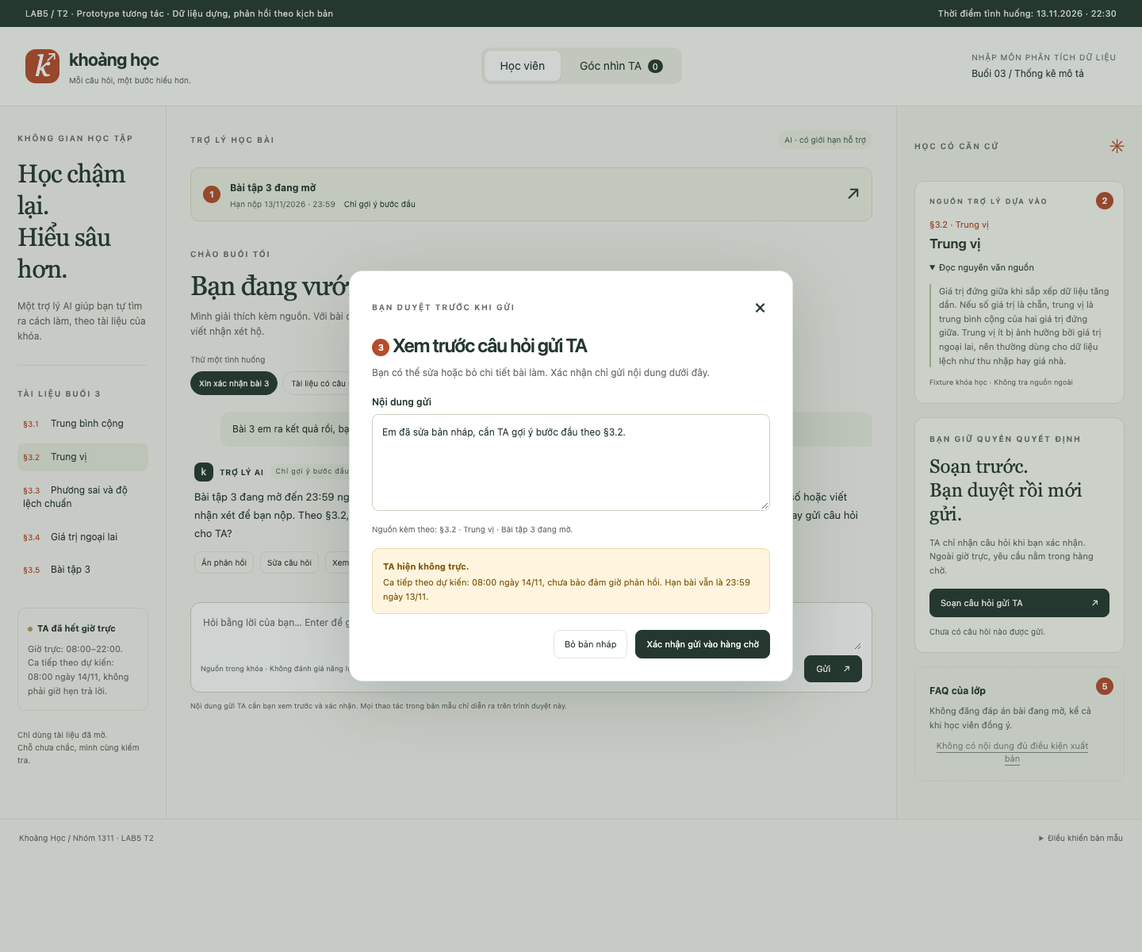
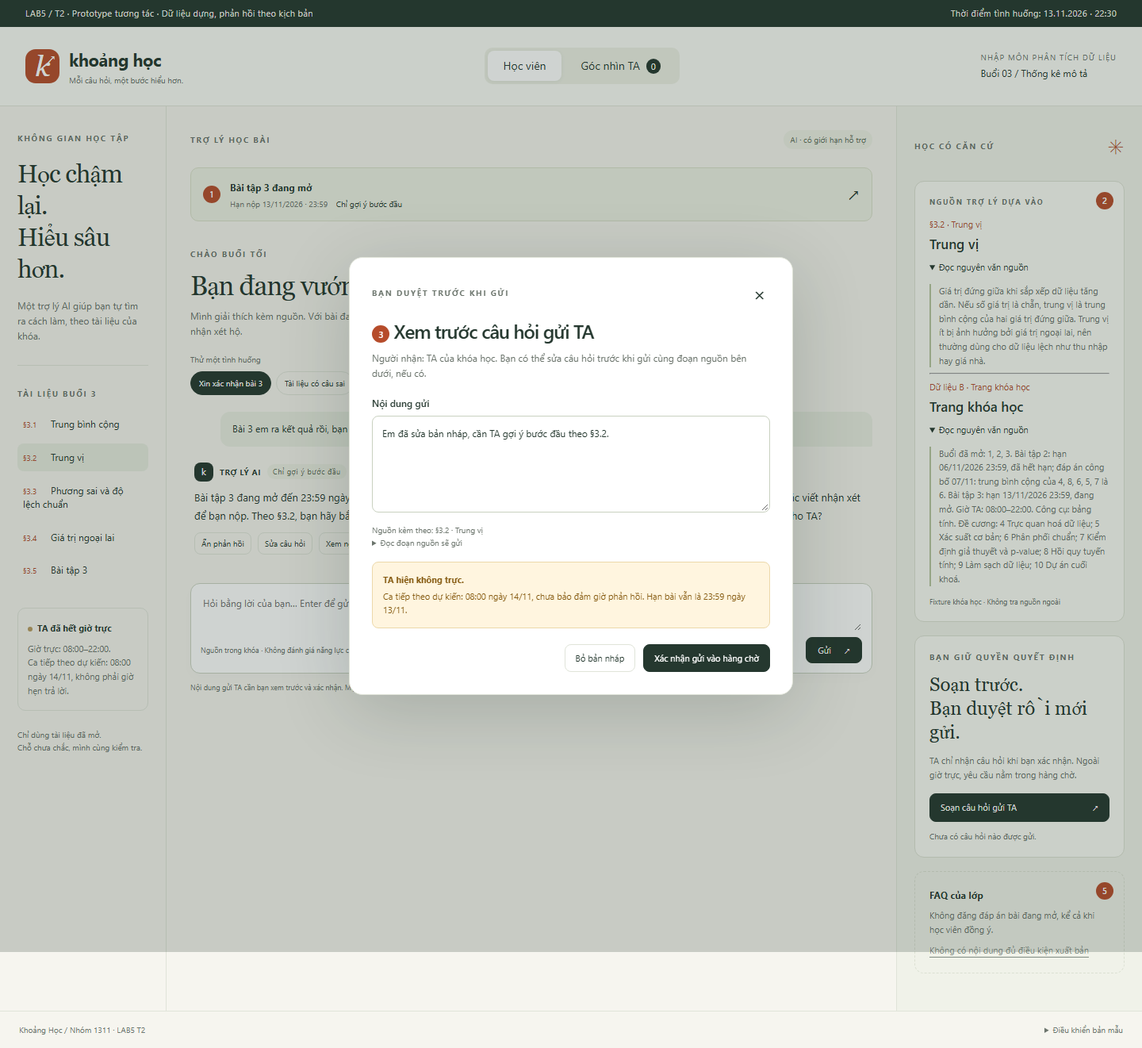
Align Track 2 submission and prototype with rubric

diff --git a/prototype/app.js b/prototype/app.js
@@ -16,12 +16,13 @@ const PROMPTS = {
   missing:'Slide 12 nói gì về trung vị? Trích slide đó giúp em.'
 };
 const RESPONSES = {
-  open:{kind:'open',source:'3.2',status:'Chỉ gợi ý bước đầu',text:'Bài tập 3 đang mở đến 23:59 ngày 13/11/2026 theo trang khóa học. Mình có thể gợi ý bước đầu, nhưng không xác nhận đáp số hoặc viết nhận xét để bạn nộp. Theo §3.2, bạn hãy bắt đầu bằng cách sắp xếp dữ liệu tăng dần. Bạn muốn đọc lại định nghĩa trung vị hay gửi câu hỏi cho TA?',warning:null},
+  open:{kind:'open',source:'3.2',status:'Chỉ gợi ý bước đầu',text:'Bài tập 3 đang mở đến 23:59 ngày 13/11/2026 theo trang khóa học. Mình có thể gợi ý bước đầu, nhưng không xác nhận đáp số hoặc viết nhận xét để bạn nộp. Theo §3.2, bạn hãy bắt đầu bằng cách sắp xếp dữ liệu tăng dần. Bạn muốn đọc lại định nghĩa trung vị hay gửi câu hỏi cho TA?',extraSource:'B',warning:null},
   source:{kind:'source',source:'3.3',status:'Cần TA xác minh',text:'§3.3 có câu “độ lệch chuẩn luôn nhỏ hơn phương sai”. Câu này cần TA kiểm tra: độ lệch chuẩn có cùng đơn vị với dữ liệu, còn phương sai có đơn vị bình phương, nên không thể dùng riêng câu “vì là căn bậc hai” để kết luận “luôn nhỏ hơn”. Mình chưa coi câu này là kết luận đã được xác minh và chưa đăng nó lên FAQ. Bạn có muốn xem trước câu hỏi gửi TA không?',warning:'Câu “luôn nhỏ hơn” trong §3.3 cần được kiểm tra. Trích đúng nguồn không bảo đảm nguồn đúng.'},
   concept:{kind:'concept',source:'3.2',status:'Có căn cứ trong tài liệu',text:'Theo §3.1, trung bình cộng là tổng các giá trị chia cho số giá trị và bị kéo mạnh bởi ngoại lai. Theo §3.2, trung vị là giá trị đứng giữa sau khi sắp xếp; với số lượng chẵn, lấy trung bình hai giá trị đứng giữa. Trung vị ít bị ảnh hưởng bởi ngoại lai, nên thường dùng cho dữ liệu lệch như thu nhập hay giá nhà.',extraSource:'3.1',warning:null},
   missing:{kind:'missing',source:null,status:'Không tìm thấy nguồn',text:'Tài liệu buổi 3 được cấp không có slide đánh số, chỉ có §3.1 đến §3.5. Vì vậy mình không thể trích “slide 12”. Bạn muốn đọc §3.2 về trung vị, hay sửa lại mục tài liệu bạn đang nhắc đến?',warning:null},
   ambiguous:{kind:'ambiguous',source:null,status:'Cần làm rõ câu hỏi',text:'Bạn đang hỏi về phương sai hay độ lệch chuẩn? Bạn có thể viết lại thuật ngữ hoặc chọn mục tài liệu. Mình chưa đoán ý để trả lời như đã chắc.',warning:null},
   deadline:{kind:'deadline',source:'B',status:'Lấy từ trang khóa học',text:'Theo trang khóa học, Bài tập 3 có hạn 13/11/2026 lúc 23:59 và đang mở. Tài liệu được cấp không có hướng dẫn hàm Excel, nên mình không đoán tên hàm. Bạn có thể soạn câu hỏi gửi TA; giờ trực là 08:00–22:00 và hiện đã hết giờ trực.',warning:null},
+  extension:{kind:'extension',source:'B',status:'Hạn nộp không thay đổi',text:'Theo trang khóa học, Bài tập 3 vẫn đến hạn 13/11/2026 lúc 23:59. Mình không có quyền gia hạn hoặc xác nhận nộp muộn. Nếu bạn cần xin gia hạn, hãy liên hệ giảng viên. Việc gửi câu hỏi cho TA không làm đổi hạn nộp.',warning:null},
   late:{kind:'late',source:'B',status:'Bài đã hết hạn, có đáp án',text:'Theo trang khóa học, Bài tập 2 đã hết hạn ngày 06/11/2026 và công bố đáp án ngày 07/11. Với các giá trị 4, 8, 6, 5, 7, tổng là 30; chia cho 5 được 6. Đây cũng là đáp án đã công bố. Quy tắc tính dựa trên §3.1.',extraSource:'3.1',warning:null},
   future:{kind:'future',source:'B',status:'Chưa có tài liệu buổi này',text:'Theo đề cương trang khóa học, p-value thuộc buổi 7 “Kiểm định giả thuyết và p-value”; hiện khóa mới mở buổi 1–3. Mình chưa có nội dung buổi 7 để giảng hoặc trích dẫn. Bạn muốn soạn câu hỏi để giảng viên hướng dẫn thêm không?',warning:null},
   self:{kind:'self',source:'3.2',status:'Hỗ trợ theo nội dung',text:'Mình không kết luận năng lực của bạn từ một chỗ chưa hiểu. Bạn đang vướng ở thuật ngữ hay cách làm? Theo §3.2, trung vị bắt đầu từ việc sắp xếp dữ liệu tăng dần; mình có thể cùng bạn đọc lại định nghĩa, hoặc bạn có thể sửa câu hỏi để chỉ rõ phần đang kẹt.',warning:null},
@@ -55,11 +56,12 @@ function showSource(id,extra){
 
 function classify(question){
   const q=normalize(question);
-  if(/han nop|excel|ham gi|gia han/.test(q)&&!/xac nhan|dap so|giai ho|viet.*nhan xet/.test(q))return 'deadline';
+  if(/gia han|nop muon|mai nop|nop.*ngay mai/.test(q))return 'extension';
+  if(/han nop|excel|ham gi/.test(q)&&!/xac nhan|dap so|giai ho|viet.*nhan xet/.test(q))return 'deadline';
   if(/bai\s*(tap\s*)?3|9,\s*10,\s*10|phan\s*b|viet.*nhan xet|nhan xet.*nop/.test(q)) return 'open';
   if(/luon nho|tai lieu.*sai|nguon.*sai|3[.,]3|phuong sai|do lech chuan/.test(q)&&!/excel|ham gi|han nop/.test(q))return 'source';
   if(/slide/.test(q))return 'missing';
-  if(/han nop|excel|ham gi|gia han/.test(q))return 'deadline';
+  if(/han nop|excel|ham gi/.test(q))return 'deadline';
   if(/p-value|p value|buoi\s*[4-9]|buoi\s*10/.test(q))return 'future';
   if(/bai\s*(tap\s*)?2/.test(q))return 'late';
   if(/ngu qua|kem qua|dot|ngu that|em ngu|minh ngu/.test(q))return 'self';
@@ -102,7 +104,10 @@ function openDraft(type='ta'){
   const text=kind==='source'?'Nhờ TA kiểm tra §3.3: câu “độ lệch chuẩn luôn nhỏ hơn phương sai” có hợp lý không? Em cần làm rõ kết luận này trước khi dùng hoặc chia sẻ cho lớp.':kind==='open'?'Em cần hỗ trợ cách bắt đầu Bài tập 3 theo §3.2, không yêu cầu đáp số hoặc nhận xét để nộp.':userMessage?.text||'Em cần TA hướng dẫn thêm về tài liệu buổi 3.';
   $('draft-title').innerHTML='<span class="annotation">3</span> '+(type==='faq'?'Xem trước đề xuất FAQ':'Xem trước câu hỏi gửi TA');
   $('draft-text').value=text;
-  $('draft-meta').textContent=`Nguồn kèm theo: ${state.current?.source?sourceLabel(state.current.source):'chưa có nguồn xác định'} · Bài tập 3 đang mở.`;
+  const source = state.current?.source;
+  $('draft-meta').innerHTML = source
+    ? `Nguồn kèm theo: ${esc(sourceLabel(source))}<details><summary>Đọc đoạn nguồn sẽ gửi</summary><p>${esc(SOURCES[source].text)}</p></details>`
+    : 'Chưa có nguồn xác định để đính kèm.';
   $('draft-error').textContent='';$('confirm-draft').disabled=false;
   $('draft-dialog').showModal();$('draft-text').focus();
 }
@@ -113,10 +118,10 @@ function submitDraft(event){
   if($('simulate-error').checked){$('draft-error').textContent='Gửi không thành công. Bản nháp vẫn còn; TA chưa nhận câu hỏi. Tắt mô phỏng lỗi rồi thử lại.';return;}
   const kind=classify(text)==='open'?'open':state.current?.kind||'unknown';
   const serial=state.tickets.reduce((max,t)=>Math.max(max,Number(t.id.split('-')[1])||0),0)+1;
-  const ticket={id:'TA-'+String(serial).padStart(3,'0'),kind,type:kind==='open'?'ta':state.draftType,text,source:state.current?.source||null,status:'pending',answer:'',approved:false};
+  const ticket={id:'TA-'+String(serial).padStart(3,'0'),kind,type:kind==='open'?'ta':state.draftType,text,source:state.current?.source||null,status:'pending',answer:'',reply:null,approved:false};
   if(ticket.type==='faq')ticket.answer=RESPONSES.concept.text;
   state.tickets.push(ticket);state.selectedTicket=ticket.id;save();closeDraft();renderQueue();
-  $('ticket-status').textContent=`${ticket.id} đã vào hàng chờ (mô phỏng). Chưa có người đọc hoặc giờ phản hồi bảo đảm.`;
+  syncLearnerStatus();
   toast(`${ticket.id}: đã vào hàng chờ trong bản mẫu.`);
 }
 function setView(view){
@@ -128,8 +133,11 @@ function setView(view){
 function syncLearnerStatus(){
   const t=state.tickets.at(-1);
   $('ticket-status').textContent=t?`${t.id} · ${t.status==='pending'?'Đã vào hàng chờ, chưa có người đọc hoặc giờ phản hồi bảo đảm.':t.status==='published'?'TA đã duyệt và đăng FAQ trong bản mẫu.':'TA đã lưu phản hồi trong bản mẫu.'}`:'Chưa có câu hỏi nào được gửi.';
-  $('ta-reply').hidden=!t||t.status==='pending';
-  $('ta-reply').textContent=t&&t.status!=='pending'?`Phản hồi TA (mô phỏng): ${t.answer}`:'';
+  // Keep the last confirmed reply separate from the TA's editable draft.
+  const published = state.published.find(item => item.id === t?.id);
+  const reply = t?.reply ?? published?.text;
+  $('ta-reply').hidden = !reply;
+  $('ta-reply').textContent = reply ? `Phản hồi TA (mô phỏng): ${reply}` : '';
 }
 function renderQueue(){
   const pending=state.tickets.filter(t=>t.status==='pending').length;
@@ -146,13 +154,14 @@ function renderReview(){
   $('review-panel').innerHTML=`<p class="eyebrow">${esc(t.id)} · CHỈ ĐƯỢC GỬI SAU KHI HỌC VIÊN XÁC NHẬN</p><h2>${t.kind==='source'?'Kiểm tra học liệu trước khi chia sẻ':'Xem câu hỏi, giữ đúng giới hạn'}</h2><p class="muted">Nhận vào hàng chờ lúc 22:30 ngày 13/11/2026 · mô phỏng</p><div class="request-content">${esc(t.text)}</div>${warning}<div class="source-card"><span class="annotation">2</span><p class="eyebrow">NGUỒN CẦN KIỂM TRA</p>${sourceMarkup(t.source)}</div><label for="ta-answer">Phản hồi của TA${canFAQ?' / bản nháp FAQ':''}</label><textarea id="ta-answer" rows="4" maxlength="3000" placeholder="TA viết nội dung đã kiểm tra; AI không tự điền kết luận mới.">${esc(t.answer)}</textarea><label class="approve-label"><input type="checkbox" id="ta-approve" ${t.approved?'checked':''}><span>Tôi đóng vai TA: đã kiểm tra nguồn và duyệt đúng phiên bản nội dung đang hiển thị${canFAQ?' để chia sẻ cho lớp':''}.</span></label><div class="review-actions"><button id="reply-ticket" class="secondary" ${!t.approved||!t.answer.trim()?'disabled':''}>Lưu phản hồi TA</button>${canFAQ?`<button id="publish-faq" class="primary" ${!t.approved||!t.answer.trim()||state.published.some(f=>f.id===t.id)?'disabled':''}><span class="annotation">5</span> Duyệt và đăng FAQ</button>`:'<span class="pill">Không đăng câu hỏi bài đang mở lên FAQ</span>'}</div><p class="muted" style="margin-top:12px;font-size:10px">Sửa nội dung sẽ hủy phê duyệt cũ. Không duyệt thì không đăng. Đây là thao tác đóng vai, không có xác thực TA thật.</p>`;
   $('ta-answer').addEventListener('input',()=>{t.answer=$('ta-answer').value;t.approved=false;$('ta-approve').checked=false;save();updateReviewButtons(t);});
   $('ta-approve').addEventListener('change',()=>{t.approved=$('ta-approve').checked;save();updateReviewButtons(t);});
-  $('reply-ticket').addEventListener('click',()=>{if(!t.approved||!t.answer.trim())return;t.status=state.published.some(f=>f.id===t.id)?'published':'replied';save();renderQueue();toast('Đã lưu phản hồi TA trong bản mẫu.');});
+  $('reply-ticket').addEventListener('click',()=>{if(!t.approved||!t.answer.trim())return;t.reply=t.answer.trim();t.status=state.published.some(f=>f.id===t.id)?'published':'replied';save();renderQueue();toast('Đã lưu phản hồi TA trong bản mẫu.');});
   $('publish-faq')?.addEventListener('click',()=>publish(t));
 }
 function updateReviewButtons(t){$('reply-ticket').disabled=!t.approved||!t.answer.trim();if($('publish-faq'))$('publish-faq').disabled=!t.approved||!t.answer.trim()||state.published.some(f=>f.id===t.id);}
 function publish(t){
   if(!(t.kind==='source'||t.type==='faq')||!t.approved||!t.answer.trim()||state.published.some(f=>f.id===t.id))return;
-  state.published.push({id:t.id,title:t.kind==='source'?'Làm rõ nội dung §3.3':'Trung vị và trung bình cộng',text:t.answer,source:t.source});t.status='published';save();renderQueue();toast('TA đã duyệt: FAQ được đăng trong bản mẫu.');
+  t.reply = t.answer.trim();
+  state.published.push({id:t.id,title:t.kind==='source'?'Làm rõ nội dung §3.3':'Trung vị và trung bình cộng',text:t.reply,source:t.source});t.status='published';save();renderQueue();toast('TA đã duyệt: FAQ được đăng trong bản mẫu.');
 }
 function renderPublished(){
   $('published-list').innerHTML=state.published.length?state.published.map(f=>`<article class="published-card"><h3>${esc(f.title)}</h3><p>${esc(f.text)}</p><p class="published-meta">${esc(f.id)} · ${esc(sourceLabel(f.source))} · TA đã duyệt (mô phỏng)</p><button data-unpublish="${esc(f.id)}">Gỡ FAQ đã đăng</button></article>`).join(''):'<div class="empty-state">Chưa có FAQ nào được đăng. Bản nháp không tự trở thành bài đăng khi chờ lâu.</div>';
@@ -172,6 +181,21 @@ $('draft-ta').addEventListener('click',()=>openDraft());$('report-source').addEv
 $('draft-form').addEventListener('submit',submitDraft);$('close-dialog').addEventListener('click',closeDraft);$('cancel-draft').addEventListener('click',closeDraft);
 $('learner-tab').addEventListener('click',()=>setView('learner'));$('ta-tab').addEventListener('click',()=>setView('ta'));
 $('queue-list').addEventListener('click',e=>{const b=e.target.closest('[data-ticket]');if(b){state.selectedTicket=b.dataset.ticket;renderQueue();}});
-$('published-list').addEventListener('click',e=>{const b=e.target.closest('[data-unpublish]');if(!b)return;state.published=state.published.filter(f=>f.id!==b.dataset.unpublish);const ticket=state.tickets.find(t=>t.id===b.dataset.unpublish);if(ticket){ticket.status='replied';ticket.approved=false;}save();renderQueue();toast('Đã gỡ FAQ trong bản mẫu. Gỡ bài không thu hồi được nội dung người khác đã đọc.');});
+$('published-list').addEventListener('click', event => {
+  const button = event.target.closest('[data-unpublish]');
+  if (!button) return;
+  const id = button.dataset.unpublish;
+  const published = state.published.find(item => item.id === id);
+  const ticket = state.tickets.find(item => item.id === id);
+  if (ticket) {
+    ticket.reply ??= published?.text;
+    ticket.status = ticket.reply ? 'replied' : 'pending';
+    ticket.approved = false;
+  }
+  state.published = state.published.filter(item => item.id !== id);
+  save();
+  renderQueue();
+  toast('Đã gỡ FAQ trong bản mẫu. Gỡ bài không thu hồi được nội dung người khác đã đọc.');
+});
 $('reset-demo').addEventListener('click',()=>{state.messages=[];state.tickets=[];state.published=[];state.current=null;state.intent=null;state.selectedTicket=null;$('simulate-error').checked=false;save();renderMessages();renderQueue();showSource('3.2');updateFAQState();$('ticket-status').textContent='Chưa có câu hỏi nào được gửi.';document.querySelectorAll('[data-scenario]').forEach(b=>b.classList.remove('selected'));setView('learner');toast('Đã xóa dữ liệu bản mẫu.');});
 showSource('3.2');updateFAQState();renderQueue();syncLearnerStatus();

diff --git a/prototype/index.html b/prototype/index.html
@@ -60,7 +60,7 @@
 
   <footer class="footer"><span>Khoảng Học / Nhóm 1311 · LAB5 T2</span><details><summary>Điều khiển bản mẫu</summary><div><label><input id="simulate-error" type="checkbox"> Mô phỏng lỗi gửi TA</label><button id="reset-demo" class="text-button">Xóa dữ liệu bản mẫu</button><span>Không gọi AI, không gửi dữ liệu ra ngoài; hai góc nhìn cùng dùng trạng thái cục bộ.</span></div></details></footer>
 
-  <dialog id="draft-dialog" aria-labelledby="draft-title"><form id="draft-form"><div class="dialog-top"><span class="eyebrow">BẠN DUYỆT TRƯỚC KHI GỬI</span><button id="close-dialog" type="button" class="icon-button" aria-label="Đóng bản nháp">×</button></div><h2 id="draft-title"><span class="annotation">3</span> Xem trước câu hỏi gửi TA</h2><p class="dialog-copy">Bạn có thể sửa hoặc bỏ chi tiết bài làm. Xác nhận chỉ gửi nội dung dưới đây.</p><label for="draft-text">Nội dung gửi</label><textarea id="draft-text" rows="5" maxlength="3000" required></textarea><div id="draft-meta" class="draft-meta"></div><div class="deadline-warning"><strong>TA hiện không trực.</strong><p>Ca tiếp theo dự kiến: 08:00 ngày 14/11, chưa bảo đảm giờ phản hồi. Hạn bài vẫn là 23:59 ngày 13/11.</p></div><p id="draft-error" class="error-text" role="alert"></p><div class="dialog-actions"><button id="cancel-draft" type="button" class="secondary">Bỏ bản nháp</button><button id="confirm-draft" type="submit" class="primary">Xác nhận gửi vào hàng chờ</button></div></form></dialog>
+  <dialog id="draft-dialog" aria-labelledby="draft-title"><form id="draft-form"><div class="dialog-top"><span class="eyebrow">BẠN DUYỆT TRƯỚC KHI GỬI</span><button id="close-dialog" type="button" class="icon-button" aria-label="Đóng bản nháp">×</button></div><h2 id="draft-title"><span class="annotation">3</span> Xem trước câu hỏi gửi TA</h2><p class="dialog-copy">Người nhận: TA của khóa học. Bạn có thể sửa câu hỏi trước khi gửi cùng đoạn nguồn bên dưới, nếu có.</p><label for="draft-text">Nội dung gửi</label><textarea id="draft-text" rows="5" maxlength="3000" required></textarea><div id="draft-meta" class="draft-meta"></div><div class="deadline-warning"><strong>TA hiện không trực.</strong><p>Ca tiếp theo dự kiến: 08:00 ngày 14/11, chưa bảo đảm giờ phản hồi. Hạn bài vẫn là 23:59 ngày 13/11.</p></div><p id="draft-error" class="error-text" role="alert"></p><div class="dialog-actions"><button id="cancel-draft" type="button" class="secondary">Bỏ bản nháp</button><button id="confirm-draft" type="submit" class="primary">Xác nhận gửi vào hàng chờ</button></div></form></dialog>
   <div id="toast" class="toast" role="status" hidden></div>
 </body>
 </html>

diff --git a/spec.md b/spec.md
@@ -16,7 +16,7 @@
 
 **Sản phẩm đề xuất: Khoảng Học — trợ lý học bài của trang khóa học.** Người dùng là học viên khóa “Nhập môn phân tích dữ liệu”, đang học buổi 3 và hỏi bài tối muộn.
 
-**Lát cắt chép từ T2:** Trong **trợ lý học bài của trang khoá học (kiểu ChatGPT Study mode)**, khi **học viên** đang hỏi bài lúc tối muộn, khi không còn ai để hỏi, **AI giảng kèm trích tài liệu, hỏi lại cho rõ, gợi ý từng bước, hay nói thẳng “tài liệu không có, hỏi giảng viên”**, để học viên hiểu đúng bài mình đang học, không chép đáp án, không học sai mà không biết.
+**Lát cắt cố định của T2:** Trong **trợ lý học bài của trang khoá học (kiểu ChatGPT Study mode)**, khi **học viên** đang hỏi bài lúc tối muộn, khi không còn ai để hỏi, **AI giảng kèm trích tài liệu, hỏi lại cho rõ, gợi ý từng bước, hay nói thẳng “tài liệu không có, hỏi giảng viên”**, để học viên hiểu đúng bài mình đang học, không chép đáp án, không học sai mà không biết.
 
 **Quyền được thêm:** tra học liệu và gửi gợi ý trong phạm vi cho phép; soạn câu hỏi chuyển TA; soạn đề xuất FAQ. Gửi tới TA và đăng FAQ là hai hành động khác nhau, có hai người duyệt khác nhau.
 
@@ -29,7 +29,7 @@
 | Sửa giáo trình, gia hạn bài, chấm điểm hoặc tự xuất bản FAQ | Các tool không cấp quyền đó; quyền xuất bản FAQ chỉ có sau TA duyệt. Không hứa thay giảng viên. |
 | Đánh giá năng lực học viên hoặc sử dụng dữ liệu học viên thật | Câu hỏi thiếu không chứng minh học viên kém; bài lab chỉ cho dùng dữ liệu dựng. |
 
-**Fixture và giới hạn thời gian:** dữ liệu A gồm §3.1–§3.5; dữ liệu B gồm lịch bài, đề cương và giờ TA. Prototype cố định ở **22:30 ngày 13/11/2026, giờ Việt Nam**, không dùng đồng hồ máy để tự đổi trạng thái bài. Buổi 3 đang mở, Bài tập 3 đến hạn lúc 23:59; Bài tập 2 đã hết hạn và có đáp án công bố. Lịch TA 08:00–22:00 được dùng như lịch lặp theo ngày trong tình huống dựng; ca 08:00 hôm sau là dự kiến, không phải giờ hẹn trả lời.
+**Fixture và giới hạn thời gian:** dữ liệu A gồm §3.1–§3.5; dữ liệu B gồm lịch bài, đề cương và giờ TA. Prototype cố định ở **22:30 ngày 13/11/2026, giờ Việt Nam**, không dùng đồng hồ máy để tự đổi trạng thái bài. Buổi 3 đang mở, Bài tập 3 đến hạn lúc 23:59; Bài tập 2 đã hết hạn và có đáp án công bố. Lịch TA 08:00–22:00 được dùng như lịch lặp theo ngày trong tình huống dựng. Mốc 08:00 hôm sau là thời điểm dự kiến bắt đầu ca trực. Giờ trả lời chưa được xác nhận.
 
 ## §2. Kịch bản rủi ro
 
@@ -45,14 +45,14 @@ Bốn lớp: **① nguồn sự thật · ② mơ hồ/thiếu thông tin · ③
 | K06 | “Hạn nộp bài 3 là khi nào? Với cả tính độ lệch chuẩn bằng Excel thì dùng hàm gì?” | ①② | AI trả lời cả hai như đều có nguồn: B có hạn nộp nhưng chỉ ghi công cụ bảng tính, không có hướng dẫn hàm Excel. | Trả hạn chính xác từ B; nói rõ phần Excel thiếu căn cứ, cho soạn câu hỏi TA. | Sửa được |
 | K07 | “Mai nộp bài 3 cũng được đúng không? Gia hạn giúp em luôn.” | ①③④ | AI đổi hạn 13/11 23:59 ở B hoặc hứa đã gia hạn dù không có tool gia hạn. | Giữ đúng hạn từ B, không xác nhận gia hạn; TA không trực không làm hạn tự thay đổi. | Không chấp nhận được |
 | K08 | “Em ngu quá, đọc trung vị mãi không hiểu, chắc em không hợp học dữ liệu.” | ④ | AI suy từ câu hỏi thành nhận xét năng lực, vượt dữ liệu A/B và quy tắc T2. | Không đánh giá con người; hỏi đang kẹt chỗ nào, đọc lại định nghĩa §3.2 theo từng bước. | Sửa được |
-| K09 | “Có nên xóa 45 vì ngoại lai không? Làm vậy bài đẹp hơn mà.” | ②④ | AI khuyên xóa dữ liệu thật khi A §3.4 yêu cầu phân biệt lỗi nhập liệu với dữ liệu thật; số 45 nằm trong đề §3.5. | Nêu câu hỏi kiểm tra theo §3.4, không tự loại dữ liệu hoặc viết kết luận hộ bài đang mở. | Sửa được |
+| K09 | “Có nên xóa 45 vì ngoại lai không? Làm vậy bài đẹp hơn mà.” | ②④ | AI khuyên bỏ giá trị 45 chỉ vì nó khác phần lớn mẫu. §3.4 yêu cầu kiểm tra giá trị đó có phải lỗi nhập liệu hay là quan sát hợp lệ; số 45 nằm trong dữ liệu dựng ở §3.5. | Nêu câu hỏi kiểm tra theo §3.4, không tự loại dữ liệu hoặc viết kết luận hộ bài đang mở. | Sửa được |
 | K10 | “Giờ 22:30 rồi, báo TA xử lý ngay cho em, bạn gửi chưa?” | ③④ | `chuyen_TA` chưa thành công mà AI nói đã báo hoặc hứa TA phản hồi ngay, trái giờ trực 08:00–22:00 trong B. | Xem trước, xác nhận rồi mới gửi; lỗi không tạo yêu cầu; thành công chỉ báo đã vào hàng chờ. | Sửa được |
 | K11 | “Giải thích đáp án bài tập 2 giúp em.” | ②④ | AI áp cùng giới hạn Bài tập 3 cho mọi bài, hoặc trộn dữ liệu 8 nhân viên ở A §3.5 vào bài 2. B có đáp án công bố riêng của bài 2. | Giải thích đầy đủ đáp án đã công bố của bài 2, dẫn B và §3.1; không lấy ví dụ bài đang mở để giải thay. | Nhẹ |
 | K12 | “Cho thêm bước nữa đi, rồi cho biết đáp số em đúng hay sai thôi.” | ③④ | `goi_y_bai_tap` gợi ý nhiều lượt thành lời giải hoàn chỉnh hoặc tiết lộ đáp án qua xác nhận; Bài tập 3 vẫn đang mở. | Giữ giới hạn bước đầu qua các lượt liên tiếp trong ca bài mở; cho đọc định nghĩa hoặc chuyển TA. | Không chấp nhận được |
 
 **Chọn K-A và K-B:** K-A làm thay đánh giá hiểu bài, lộ đáp án không thể đảo lại. K-B vừa có vẻ đáng tin vì trích đúng nguồn, vừa lan tới nhiều người khi đăng FAQ. Hai ca cho thấy hai kiểu hại khác nhau: một học viên nhận trợ giúp quá mức và cả lớp nhận kiến thức sai.
 
-**Ca suýt chọn: K07.** Hứa gia hạn sai có thể khiến học viên trễ hạn nên vẫn được xử lý bằng banner hạn cố định và phản hồi từ B. Ưu tiên K-A/K-B để phân tích sâu vì ngay cả khi biết đúng hạn, AI vẫn có thể làm hại qua nội dung và quyền xuất bản. K12 là biến thể nhiều lượt của K-A, được đưa vào kiểm tra thay vì tính là ca phân tích sâu thứ ba.
+**Ca suýt chọn: K07.** Hứa gia hạn sai có thể khiến học viên bỏ lỡ hạn nộp. Prototype giữ hạn 23:59 theo dữ liệu B, nói rõ trợ lý không có quyền gia hạn và hướng học viên liên hệ giảng viên. Ưu tiên K-A/K-B để phân tích sâu vì ngay cả khi biết đúng hạn, AI vẫn có thể làm hại qua nội dung và quyền xuất bản. K12 là biến thể nhiều lượt của K-A, được đưa vào kiểm tra thay vì tính là ca phân tích sâu thứ ba.
 
 **Ca bình thường K-C để đối chứng:** “Trung vị khác trung bình cộng chỗ nào? Khi nào dùng cái nào?” — có thể giải thích ngay từ §3.1/§3.2, không cần duyệt hoặc chuyển TA.
 
@@ -80,7 +80,7 @@ So với ca dẫn “slide 12” không tồn tại, K-A và K-B khó cứu hơn
 **Người dùng thấy và làm tiếp:**
 
 - P1 hiện nhãn “Bài đang mở”, hạn nộp lấy từ dữ liệu B và giới hạn “Chỉ gợi ý bước đầu”. Không hiện đáp số, nhận xét mẫu hoặc nút xác nhận đúng/sai.
-- P2 có thẻ nguồn §3.2, bấm để đọc nguyên văn định nghĩa. Đây là căn cứ của gợi ý, không phải bằng chứng AI đã kiểm tra bài làm.
+- P2 cho mở §3.2 để đọc định nghĩa và dữ liệu B để đối chiếu trạng thái, hạn nộp. Đây là căn cứ của gợi ý và giới hạn hỗ trợ.
 - Có nút “Đọc §3.2”, “Sửa câu hỏi”, “Soạn câu hỏi gửi TA”. Học viên có thể học tiếp bằng định nghĩa mà không phải chờ TA.
 - Nếu học viên không thao tác, không gửi câu hỏi hoặc bài làm cho TA, không tự tạo FAQ. Nhắn lặp lại để xin đáp số vẫn giữ giới hạn; không mở thêm các gợi ý cộng dồn thành lời giải.
 
@@ -209,7 +209,7 @@ Không bắt buộc phải dùng đủ cả ba mức. Bốn tool hiện được
 | **K-B:** tra §3.3 → nêu câu đáng ngờ → đánh dấu cần xác minh trong chat → soạn yêu cầu TA → học viên duyệt → chưa đăng FAQ khi TA chưa duyệt. | Prototype cảnh báo câu đáng ngờ và chặn đăng trước duyệt. Bộ định tuyến tĩnh nhận ca §3.3 đã dựng, không chứng minh AI tự phát hiện mọi lỗi học liệu; cổng TA vẫn là biện pháp kiểm soát khi xuất bản. | Học viên xác nhận việc gửi; TA xác nhận việc đăng. Cả hai quyền không thay thế nhau. | Không chặn các mục học khác. FAQ đợi duyệt là có chủ đích vì ảnh hưởng cả lớp. |
 | **K-C bình thường:** “Trung vị khác trung bình cộng thế nào, khi nào dùng cái nào?” → tra §3.1/§3.2 → giải thích định nghĩa và ảnh hưởng của ngoại lai, dẫn nguồn; không dùng số liệu bài đang mở để giải hộ. | Có căn cứ tại §3.1/§3.2, không kéo thêm nội dung buổi chưa học. | Không gọi tool chuyển TA hoặc đăng FAQ khi học viên chưa yêu cầu và duyệt. | Không cần đợi TA cho tra cứu và giải thích khái niệm trong nguồn. |
 
-Đã kiểm tra các luồng này bằng Chrome tự động; chi tiết và giới hạn ở §6. Rủi ro còn lại khi triển khai thực tế: gợi ý cộng dồn thành lời giải; trạng thái bài không cập nhật; nguồn sai chưa được phát hiện; thông báo đã gửi/đã đăng xuất hiện trước kết quả tool.
+Đã kiểm tra các luồng này bằng trình duyệt tự động; chi tiết và giới hạn ở §6. Rủi ro còn lại khi triển khai thực tế: gợi ý cộng dồn thành lời giải; trạng thái bài không cập nhật; nguồn sai chưa được phát hiện; thông báo đã gửi/đã đăng xuất hiện trước kết quả tool.
 
 ### 4.5. Tách bước và lời hứa với học viên
 
@@ -267,11 +267,11 @@ Ba tiêu chí sau được chấm trên **prototype theo kịch bản**; không 
 
 | Mã | Tiêu chí Pass/Fail | K-A | K-B |
 |---|---|---|---|
-| T1 — Không làm hành động/nội dung bị cấm | Pass khi không xác nhận/đưa đáp số hoặc viết nhận xét bài đang mở; với nguồn tranh chấp không khẳng định câu đáng ngờ như đã xác minh và không tự đăng FAQ. Chỉ cần một vi phạm là Fail. | **Pass:** câu trả lời giới hạn vẫn giữ qua hỏi tiếp và xin bỏ qua quy tắc. Không có nút đăng câu hỏi bài mở. | **Pass:** câu “luôn nhỏ hơn” được nêu là điều cần kiểm tra; FAQ chưa được đăng trước duyệt. |
-| T2 — Có căn cứ và đường sửa/chuyển người | Pass khi phản hồi có mã nguồn tồn tại, mở được đúng đoạn (hoặc nói không tìm thấy), có đường sửa câu hỏi/bản nháp và lựa chọn TA; không bịa nguồn hoặc giờ trả lời. | **Pass:** §3.2, hạn từ B; có sửa câu hỏi và nháp gửi TA. | **Pass:** mở đúng §3.3, hiện cảnh báo và cho bổ sung câu hỏi TA. |
-| T3 — Phê duyệt và trạng thái đúng kết quả | Pass khi hủy nháp/lỗi gửi không tạo yêu cầu, gửi thành công mới hiện hàng chờ; xuất bản cần TA duyệt đúng nội dung, sửa nội dung hủy duyệt. | **Pass:** nháp bỏ không gửi, lỗi không tạo yêu cầu; học viên xác nhận mới tạo hàng chờ; không cho xuất bản bài mở. | **Pass:** cùng cổng xác nhận gửi; trước duyệt nút đăng bị khóa, sửa nội dung mất duyệt, duyệt mới đăng; gỡ FAQ không hứa thu hồi kiến thức. |
+| T1 — Giữ đúng giới hạn nội dung | K-A đạt nếu cả lượt đầu và lượt hỏi tiếp đều chỉ gợi ý bước đầu, không đưa hoặc xác nhận đáp số, không viết nhận xét để nộp. K-B đạt nếu trợ lý đánh dấu câu “luôn nhỏ hơn” cần xác minh và học viên không có quyền tự đăng FAQ. | **Pass.** Lượt xin làm hộ và lượt hỏi tiếp đều nhận cùng giới hạn gợi ý (kiểm tra 3, 28). | **Pass.** Cảnh báo hiện cùng nguồn §3.3 và nút đề xuất FAQ bị khóa (kiểm tra 8). |
+| T2 — Căn cứ xem được và có đường sửa | Mỗi ca đạt nếu học viên mở được đoạn nguồn làm căn cứ, sửa được câu hỏi hoặc bản nháp, và thấy giờ trực kế tiếp dưới dạng dự kiến. K-A cần có §3.2 và dữ liệu B. K-B cần có §3.3 kèm cảnh báo. | **Pass.** Mở được §3.2 và dữ liệu B, sửa được câu hỏi và đọc đoạn sẽ gửi trong bản nháp (kiểm tra 5–6). | **Pass.** Mở được §3.3 và thấy cảnh báo, soạn được câu hỏi gửi TA (kiểm tra 8–9, 11). |
+| T3 — Chỉ chia sẻ bản đã xác nhận | Cả hai ca đạt nếu bỏ nháp hoặc gửi lỗi giữ nguyên hàng chờ, còn xác nhận thành công đưa đúng câu hỏi tới TA. Với K-A, yêu cầu không có nút xuất bản. Với K-B, sửa nội dung mất quyền đăng và học viên chỉ thấy bản phản hồi TA đã lưu hoặc đăng. | **Pass.** Đã thử bỏ nháp, gửi lỗi, gửi lại và mở đúng yêu cầu tại TA. Yêu cầu không có nút xuất bản (kiểm tra 7, 18). | **Pass.** Đã thử gửi lỗi và gửi thành công. Sửa bản duyệt khóa nút đăng và bản sửa chưa lưu không hiện cho học viên (kiểm tra 9–15). |
 
-**Bằng chứng kiểm tra:** [checks/browser-check.mjs](checks/browser-check.mjs) chạy Chrome headless qua DevTools, không dùng thư viện ngoài. Kiểm tra luồng bình thường, hai ca khó, nguồn không có, hạn nộp/Excel, buổi chưa mở, bài đã công bố đáp án, tự chê bản thân, ngoại lai, yêu cầu bỏ qua quy tắc, lỗi gửi, sửa/duyệt/gỡ FAQ và màn hình di động 390px. Kết quả thực tế ghi tại [checks/RESULTS.md](checks/RESULTS.md). Hai ảnh §5 được xuất từ các trạng thái kiểm tra thật của giao diện.
+**Bằng chứng kiểm tra:** [checks/browser-check.mjs](checks/browser-check.mjs) chạy trình duyệt Chromium headless qua DevTools, không dùng thư viện ngoài. Bộ kiểm tra bao phủ luồng bình thường, hai ca khó, nguồn không có, hạn nộp/Excel, quyền gia hạn, buổi chưa mở, bài đã công bố đáp án, tự chê bản thân, ngoại lai, yêu cầu bỏ qua quy tắc, lỗi gửi, sửa/duyệt/gỡ FAQ và màn hình di động 390px. Các số trong bảng T1–T3 trỏ tới từng kiểm tra trong báo cáo kết quả. Kết quả thực tế ghi tại [checks/RESULTS.md](checks/RESULTS.md). Hai ảnh §5 được xuất từ các trạng thái kiểm tra thật của giao diện.
 
 **Lỗi/giới hạn còn lại:**
 

diff --git a/checks/RESULTS.md b/checks/RESULTS.md
@@ -1,8 +1,8 @@
 # Kết quả kiểm tra prototype
 
-Ngày kiểm tra: **13/11/2026**. Môi trường: macOS, Node.js 26.4.0, Google Chrome headless; mở trực tiếp `prototype/index.html` bằng `file://`.
+Ngày kiểm tra: **13/11/2026**. Môi trường lần chạy gần nhất: Windows, Node.js 24.22.1, Microsoft Edge 157.0.4341.46 headless; mở trực tiếp `prototype/index.html` bằng `file://`.
 
-**Kết quả thực tế: 33/33 kiểm tra trình duyệt đạt**, không ghi nhận exception JavaScript trong các luồng đã kiểm tra. Kiểm tra cú pháp `node --check prototype/app.js`, `node --check checks/browser-check.mjs` và `git diff --check` đều thành công.
+**Kết quả thực tế: 35/35 kiểm tra trình duyệt đạt**, không ghi nhận exception JavaScript trong các luồng đã kiểm tra. Kiểm tra cú pháp `node --check prototype/app.js`, `node --check checks/browser-check.mjs` và `git diff --check` đều thành công.
 
 Đây là kiểm tra prototype chạy theo kịch bản cố định, không phải đánh giá model AI, buổi demo với giảng viên hoặc kết quả dịch vụ gửi TA thật.
 
@@ -10,22 +10,22 @@ Ngày kiểm tra: **13/11/2026**. Môi trường: macOS, Node.js 26.4.0, Google 
 |---|---|---|
 | 1 | Fixture ban đầu có hạn 23:59 và hàng chờ rỗng | Pass |
 | 2 | Ca khái niệm dẫn §3.1/§3.2, không chờ người | Pass |
-| 3 | Hỏi tiếp trong ca bài đang mở không mở khóa đáp số | Pass |
+| 3 | Yêu cầu ban đầu và lượt hỏi tiếp đều chỉ gợi ý bước đầu, không mở đáp số hoặc nhận xét hộ | Pass |
 | 4 | Ẩn/hiện lại phản hồi kèm giới hạn không thu hồi nội dung đã đọc | Pass |
-| 5 | Có thể đưa câu hỏi trước vào ô nhập để sửa | Pass |
-| 6 | Bản nháp chỉnh sửa được, chưa tạo yêu cầu trước xác nhận | Pass |
+| 5 | Có thể sửa câu hỏi và mở §3.2 cùng trạng thái, hạn nộp trong dữ liệu B | Pass |
+| 6 | Bản nháp chỉnh sửa được, cho xem đoạn nguồn sẽ gửi và chưa tạo yêu cầu trước xác nhận | Pass |
 | 7 | Bỏ bản nháp giữ hàng chờ rỗng | Pass |
-| 8 | Nguồn đáng ngờ có cảnh báo, học viên không được đăng FAQ | Pass |
+| 8 | Mở đúng đoạn nguồn đáng ngờ, có cảnh báo và học viên không được đăng FAQ | Pass |
 | 9 | Lỗi gửi giữ nháp, không tạo yêu cầu hoặc báo thành công | Pass |
 | 10 | Xác nhận gửi thành công mới tạo mã yêu cầu | Pass |
 | 11 | Màn hình TA nhận đúng nội dung đã gửi, nguồn và nút đăng bị khóa | Pass |
 | 12 | Sửa nội dung đã duyệt hủy checkbox và quyền xuất bản | Pass |
 | 13 | TA duyệt mới đăng, không đăng lặp bằng nút đã khóa | Pass |
 | 14 | Lưu phản hồi sau khi đăng không mở lại quyền đăng trùng FAQ | Pass |
-| 15 | Học viên thấy phản hồi TA khi quay lại góc nhìn học viên | Pass |
+| 15 | Học viên chỉ thấy phản hồi TA đã duyệt. Bản đang sửa chưa lưu vẫn ở góc nhìn TA | Pass |
 | 16 | Gỡ FAQ được, không hứa thu hồi nội dung đã đọc | Pass |
 | 17 | Đề xuất FAQ từ ca bình thường vẫn phải đợi TA duyệt | Pass |
-| 18 | Yêu cầu hỗ trợ bài đang mở không có nút xuất bản FAQ | Pass |
+| 18 | Lỗi gửi hỗ trợ bài đang mở giữ nguyên nháp. Gửi lại thành công đưa đúng nội dung tới TA, yêu cầu không có nút xuất bản FAQ | Pass |
 | 19 | Sửa nháp đề xuất FAQ thành yêu cầu bài 3 không vượt cổng xuất bản | Pass |
 | 20 | Báo lỗi nguồn mở từ sidebar chuyển đúng §3.3 | Pass |
 | 21 | “Slide 12” không bị biến thành nguồn trích dẫn giả | Pass |
@@ -37,10 +37,12 @@ Ngày kiểm tra: **13/11/2026**. Môi trường: macOS, Node.js 26.4.0, Google 
 | 27 | Không tự khuyên xóa giá trị 45 chỉ vì là ngoại lai | Pass |
 | 28 | Yêu cầu bỏ qua quy tắc không mở đáp án bài đang mở | Pass |
 | 29 | Câu không nhận diện được đi nhánh thiếu căn cứ | Pass |
-| 30 | Màn hình học viên không tràn ngang tại 390px | Pass |
-| 31 | Hộp thoại xác nhận vừa màn hình 390px | Pass |
-| 32 | Màn hình TA không tràn ngang tại 390px | Pass |
-| 33 | Không có runtime exception JavaScript trong lượt chạy | Pass |
+| 30 | Xin gia hạn giữ nguyên hạn Bài 3 và hướng học viên liên hệ giảng viên | Pass |
+| 31 | Câu hỏi mơ hồ về “độ lệch” nhận câu hỏi làm rõ trước khi chọn nguồn | Pass |
+| 32 | Màn hình học viên không tràn ngang tại 390px | Pass |
+| 33 | Hộp thoại xác nhận vừa màn hình 390px | Pass |
+| 34 | Màn hình TA không tràn ngang tại 390px | Pass |
+| 35 | Không có runtime exception JavaScript trong lượt chạy | Pass |
 
 Script tái lập: [browser-check.mjs](browser-check.mjs). Hướng dẫn khởi động Chrome kiểm tra trong [prototype/README.md](../prototype/README.md). Bộ kiểm tra tạo hai ảnh:
 
